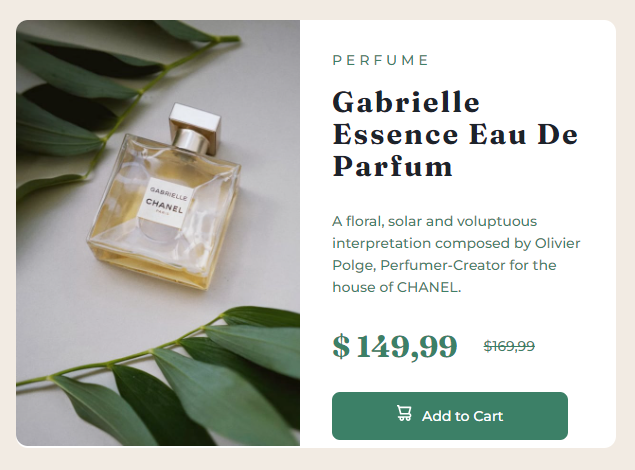
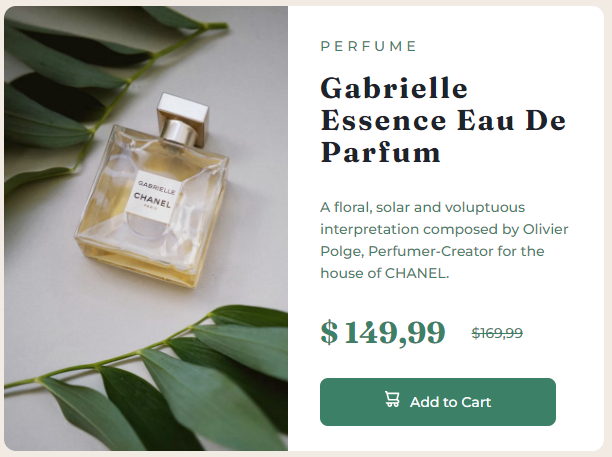
Corrections

diff --git a/src/styles/responsible.css b/src/styles/responsible.css
@@ -36,11 +36,14 @@
   }
   /* --------------- */
   .container .info .price {
-    margin-bottom: 3rem;
+    margin-bottom: 2rem;
   }
   /* --------------- */
   .container .info .btn-add-to-cart {
     padding: 1.5rem 9.2rem;
     margin-bottom: 2rem;
+    display: flex;
+    justify-self: center;
+    align-self: center;
   }
 }

diff --git a/src/styles/style.css b/src/styles/style.css
@@ -29,13 +29,14 @@ body {
 
 .container .image-parfum img {
     width: 100%;
+    height: 100%;
     border-radius: 12px 0 0 12px;
 }
 
 /* =================================== */
 
 .container .info {
-  padding: 3rem 3rem 0 0;
+  padding: 3rem 3rem 4rem 0;
 }
 
 /* ---------------------------- */

diff --git a/README.md b/README.md
@@ -7,7 +7,6 @@ This is a solution to the [Product preview card component challenge on Frontend 
 - [Overview](#overview)
   - [The challenge](#the-challenge)
   - [Screenshot](#screenshot)
-  - [Links](#links)
 - [My process](#my-process)
   - [Built with](#built-with)
   - [What I learned](#what-i-learned)
@@ -29,10 +28,6 @@ Users should be able to:
 
 ![Mobile Version](./design/Screenshot-mobile.png)
 
-### Links
-
-- Solution URL: [Add solution URL here](https://your-solution-url.com)
-
 ## My process
 
 ### Built with
@@ -40,6 +35,7 @@ Users should be able to:
 - Semantic HTML5 markup
 - CSS custom properties
 - Flexbox
+- CSS Grid
 - Mobile-first workflow
 
 ### What I learned
@@ -60,6 +56,8 @@ Users should be able to:
 ```
 
 - Working with flexible display using the flexbox properties, positioning elements on the screen.
+
+- Working yet with positionin elements on screen with CSS Grid too.
 
 - Working with external fonts (Google fonts) to improve a better custom apparence.
 
